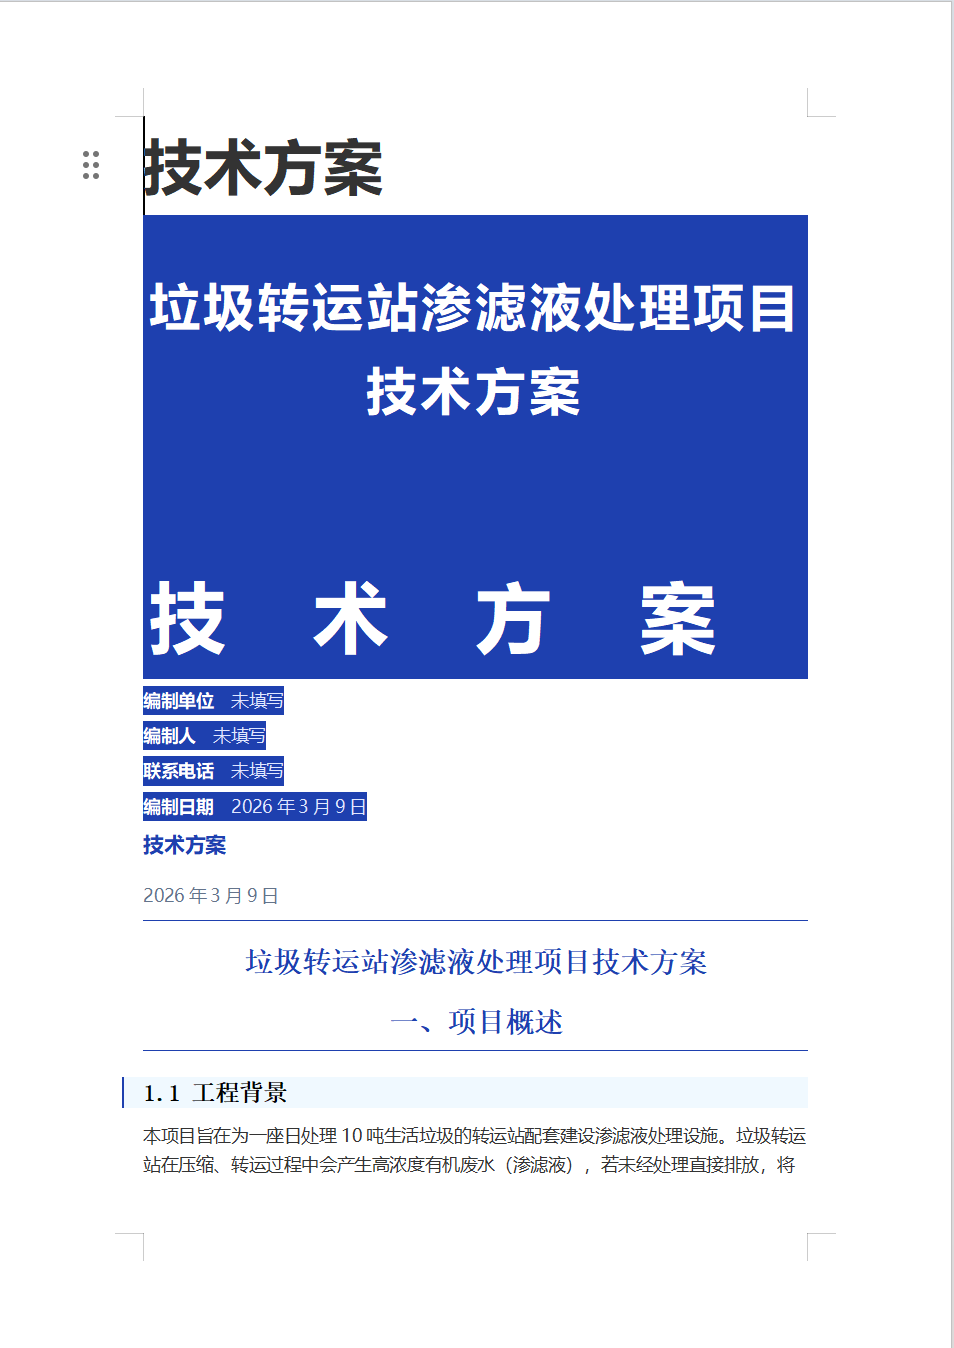
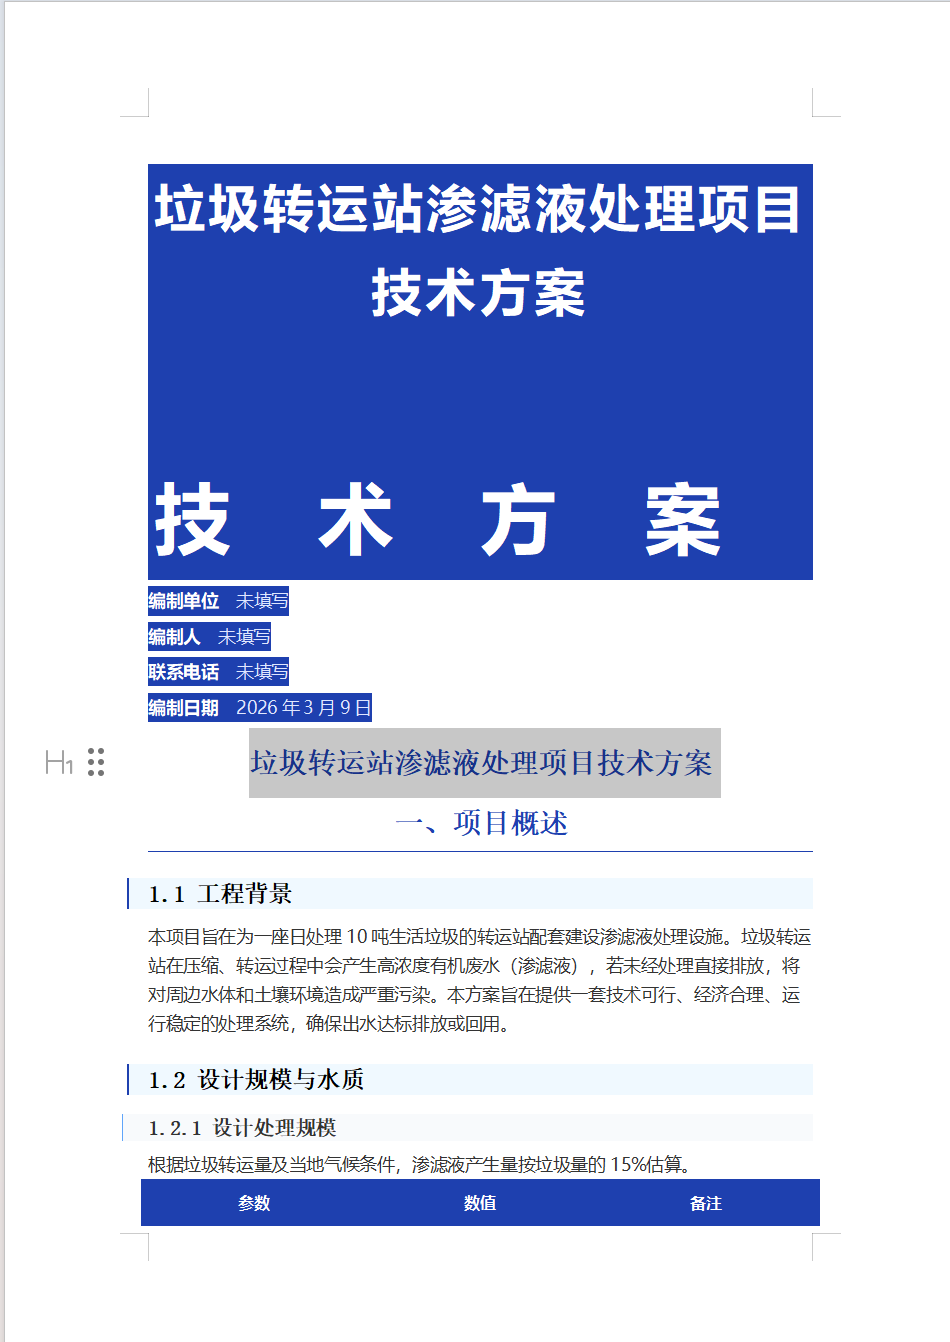
fix: 优化Word下载封面排版 - 删除蓝色渲染块，添加智能竖排文字
Word下载排版优化（仅修改Word下载，不影响PDF）：

1. 删除蓝色渲染块：
   - 封面背景从 #1e40af 改为白色
   - 所有文字颜色从白色改为 #333333
   - 分割线颜色从 #3b82f6 改为 #333333

2. 智能竖排文字：
   - 添加智能关键词提取逻辑
   - 自动检测"技术方案"、"报价方案"、"报价单"等关键词
   - 竖排显示关键词，默认为"技术方案"
   - 竖排文字样式：48pt，字间距54pt，上边距200px

3. 删除编制日期以下的重复标题：
   - 移除正文中的第一个h1标签
   - 避免封面和正文重复显示项目标题

4. 正文从第二页开始：
   - 保持 <div class="page-break"></div> 强制分页
   - 封面独占第一页

保持不变：
- PDF下载所有样式和布局
- 封面高度270mm
- 主标题样式
- 编制信息样式和位置
- 所有封面元素相对位置

diff --git a/src/components/chat-message.tsx b/src/components/chat-message.tsx
@@ -1199,6 +1199,27 @@ export default function ChatMessage({
     const titleMatch = parsedContent.match(/<h1[^>]*>(.+?)<\/h1>/);
     const projectTitle = titleMatch ? titleMatch[1] : '技术方案';
     
+    // 移除正文中的第一个h1标签（避免重复显示）
+    let contentWithoutFirstH1 = parsedContent.replace(/<h1[^>]*>.+?<\/h1>/, '');
+    
+    // 提取竖排文字（智能关键词提取）
+    const rawTitle = projectTitle.replace(/<[^>]*>/g, '');
+    let verticalText = '';
+    
+    // 提取关键词
+    const keywords = ['技术方案', '报价方案', '报价单'];
+    for (const keyword of keywords) {
+      if (rawTitle.includes(keyword)) {
+        verticalText = keyword;
+        break;
+      }
+    }
+    
+    // 如果没有找到关键词，默认为"技术方案"
+    if (!verticalText) {
+      verticalText = '技术方案';
+    }
+    
     // 获取供应方信息
     const supplierName = supplierInfo?.companyName || '未填写';
     const contactPerson = supplierInfo?.contactPerson || '未填写';
@@ -1241,27 +1262,25 @@ export default function ChatMessage({
       display: none;
     }
     
-    /* 封面样式 - 简洁商务 */
+    /* 封面样式 - 删除蓝色渲染块 */
     .cover {
       text-align: center;
       padding: 40pt 60pt;
       page-break-after: always;
-      background: #1e40af;
-      color: white;
+      background: white;
+      color: #333333;
       height: 270mm;
       min-height: 270mm;
       max-height: 270mm;
       display: flex;
       flex-direction: column;
       justify-content: space-between;
-      -webkit-print-color-adjust: exact;
-      print-color-adjust: exact;
     }
 
     .cover-title {
       font-size: 32pt;
       font-weight: 700;
-      color: #ffffff;
+      color: #333333;
       margin-bottom: 4pt;
       margin-top: 30pt;
       letter-spacing: 2pt;
@@ -1271,7 +1290,7 @@ export default function ChatMessage({
       writing-mode: vertical-rl;
       text-orientation: mixed;
       font-size: 48pt;
-      color: #ffffff;
+      color: #333333;
       letter-spacing: 54pt;
       height: auto;
       margin: 200px auto 0;
@@ -1282,7 +1301,7 @@ export default function ChatMessage({
     .cover-divider {
       width: 120pt;
       height: 2pt;
-      background: #3b82f6;
+      background: #333333;
       margin: 0 auto 30pt;
     }
 
@@ -1298,7 +1317,7 @@ export default function ChatMessage({
 
     .cover-info {
       font-size: 13pt;
-      color: #e0e7ff;
+      color: #333333;
       margin: 0 auto;
       max-width: 500pt;
       line-height: 1.8;
@@ -1309,12 +1328,12 @@ export default function ChatMessage({
     .cover-info p {
       text-indent: 0;
       margin: 4pt 0;
-      color: #e0e7ff;
+      color: #333333;
       font-weight: 400;
     }
 
     .cover-info strong {
-      color: #ffffff;
+      color: #333333;
       font-weight: 600;
       display: inline-block;
       min-width: 90pt;
@@ -1342,7 +1361,7 @@ export default function ChatMessage({
     
     /* 页眉 - 简洁 */
     .header {
-      border-bottom: 2px solid #1e40af;
+      border-bottom: 2px solid #333333;
       padding-bottom: 6pt;
       margin-bottom: 12pt;
       display: flex;
@@ -1353,12 +1372,12 @@ export default function ChatMessage({
     .header-title {
       font-size: 13pt;
       font-weight: 600;
-      color: #1e40af;
+      color: #333333;
     }
 
     .header-date {
       font-size: 11pt;
-      color: #64748b;
+      color: #666666;
     }
     
     /* 标题样式 - 多级编号商务风格 */
@@ -1554,7 +1573,7 @@ export default function ChatMessage({
     <!-- 封面顶部区域 -->
     <div class="cover-top">
       <div class="cover-title">${projectTitle}</div>
-      <div class="cover-vertical-text">技术方案</div>
+      <div class="cover-vertical-text">${verticalText}</div>
     </div>
     
     <!-- 封面底部区域 -->
@@ -1574,7 +1593,7 @@ export default function ChatMessage({
   
   <!-- 正文 -->
   <div class="content">
-    ${parsedContent}
+    ${contentWithoutFirstH1}
   </div>
 </body>
 </html>`;
